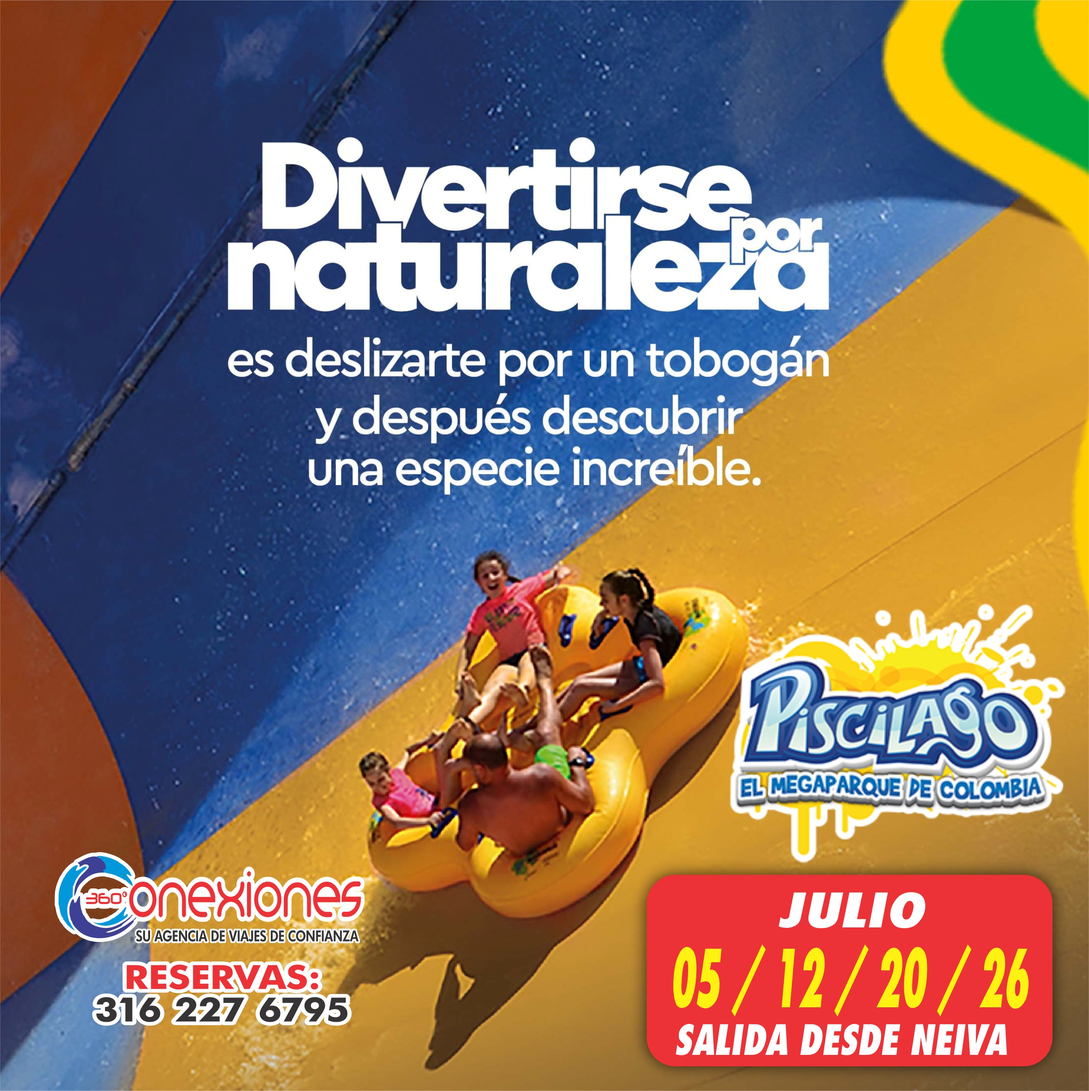
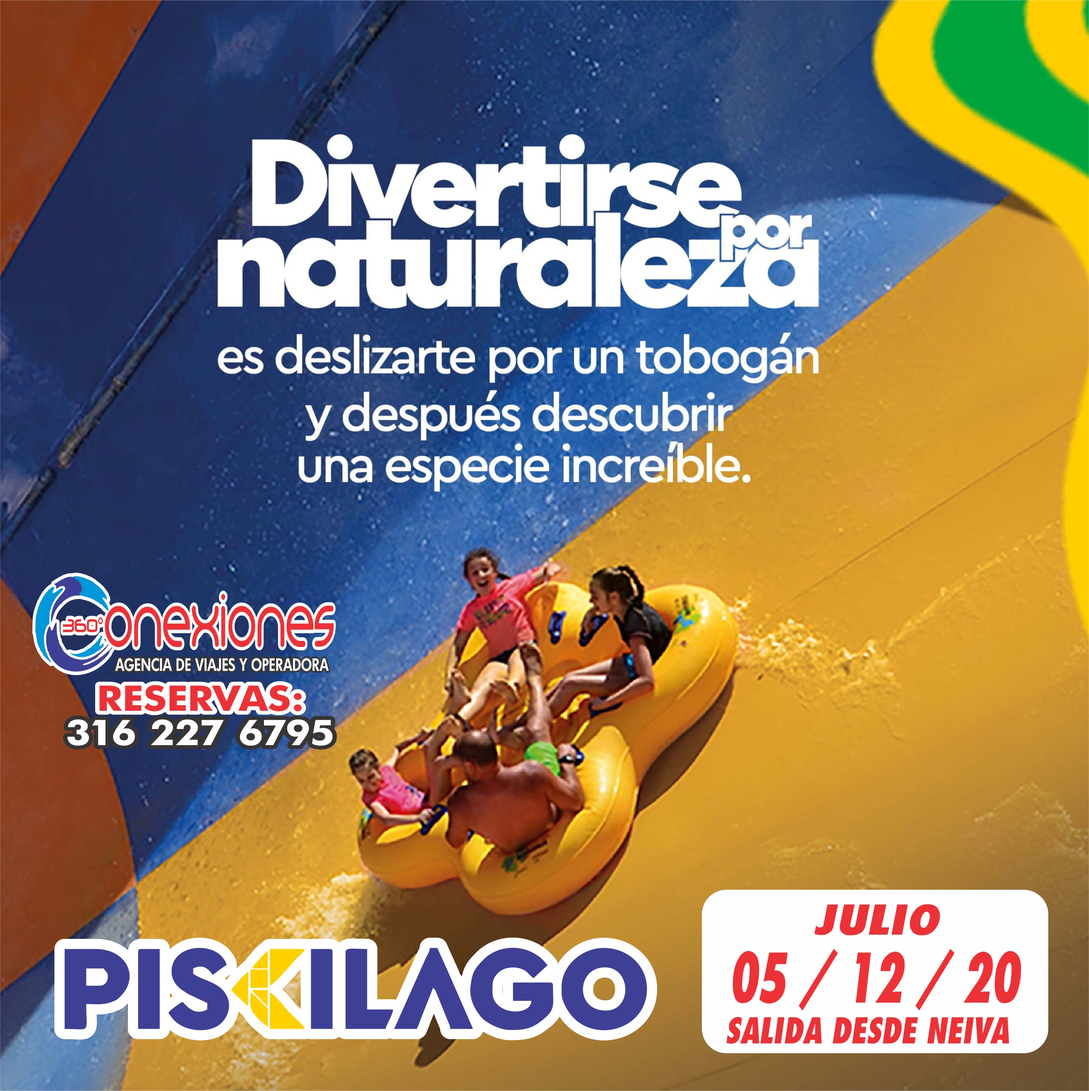
julio correcciones v200226

diff --git a/src/data/flyers/flyers.ts b/src/data/flyers/flyers.ts
@@ -677,7 +677,7 @@ export const flyers: FlyerPlan[] = [
     tipo: "terrestre",
     titulo: "Programación Julio 2026",
     fechas: ["Julio 1 - 26"],
-    precio: 170000,
+    precio: 175000,
     imagen: "/Julio2026/lista.jpg",
     whatsappBase:
       "Hola Conexiones360, quiero información del plan Julio 2026",
@@ -687,12 +687,12 @@ export const flyers: FlyerPlan[] = [
     id: "haciendanapoles-julio",
     mes: "julio",
     tipo: "terrestre",
-    titulo: "Hacienda Nápoles",
-    fechas: ["Julio 5"],
-    precio: 360000,
+    titulo: "Guatapé + Hacienda Nápoles",
+    fechas: ["Julio 3 al 5"],
+    precio: 650000,
     imagen: "/Julio2026/napoles.jpg",
     whatsappBase:
-      "Hola Conexiones360, quiero información del plan Hacienda Nápoles",
+      "Hola Conexiones360, quiero información del plan Guatapé + Hacienda Nápoles",
   },
               {
     id: "cali-julio",
@@ -712,11 +712,10 @@ export const flyers: FlyerPlan[] = [
     titulo: "Piscilago Pasadía",
     fechas: [
       "Julio 5",
-      "Julio 12",
       "Julio 20",
       "Julio 26",
     ],
-    precio: 170000,
+    precio: 175000,
     imagen: "/Julio2026/piscilago.jpg",
     whatsappBase:
       "Hola Conexiones360, quiero información del plan Piscilago Pasadía",
@@ -738,7 +737,7 @@ export const flyers: FlyerPlan[] = [
     tipo: "terrestre",
     titulo: "Villa de Leyva",
     fechas: ["Julio 19 al 20"],
-    precio: 630000,
+    precio: 640000,
     imagen: "/Julio2026/boyaca.jpg",
     whatsappBase:
       "Hola Conexiones360, quiero información del plan Villa de Leyva",
@@ -755,15 +754,26 @@ export const flyers: FlyerPlan[] = [
       "Hola Conexiones360, quiero información del plan Eje Cafetero",
   },
                 {
-    id: "cafam-julio",
+    id: "nevadodelruiz-julio",
     mes: "julio",
     tipo: "terrestre",
-    titulo: "Cafam Melgar",
+    titulo: "Nevado del Ruiz",
     fechas: ["Julio 26"],
-    precio: 170000,
-    imagen: "/Julio2026/cafam.jpg",
+    precio: 350000,
+    imagen: "/Julio2026/nevadoruiz.jpg",
     whatsappBase:
-      "Hola Conexiones360, quiero información del plan Cafam Melgar",
+      "Hola Conexiones360, quiero información del plan Nevado del Ruiz",
+  },
+                  {
+    id: "pasadiaprado-julio",
+    mes: "julio",
+    tipo: "terrestre",
+    titulo: "Pasadía Prado Tolima",
+    fechas: ["Julio 26"],
+    precio: 198000,
+    imagen: "/Julio2026/prado.jpg",
+    whatsappBase:
+      "Hola Conexiones360, quiero información del plan pasadía Prado Tolima",
   },
 
 // AGOSTO
